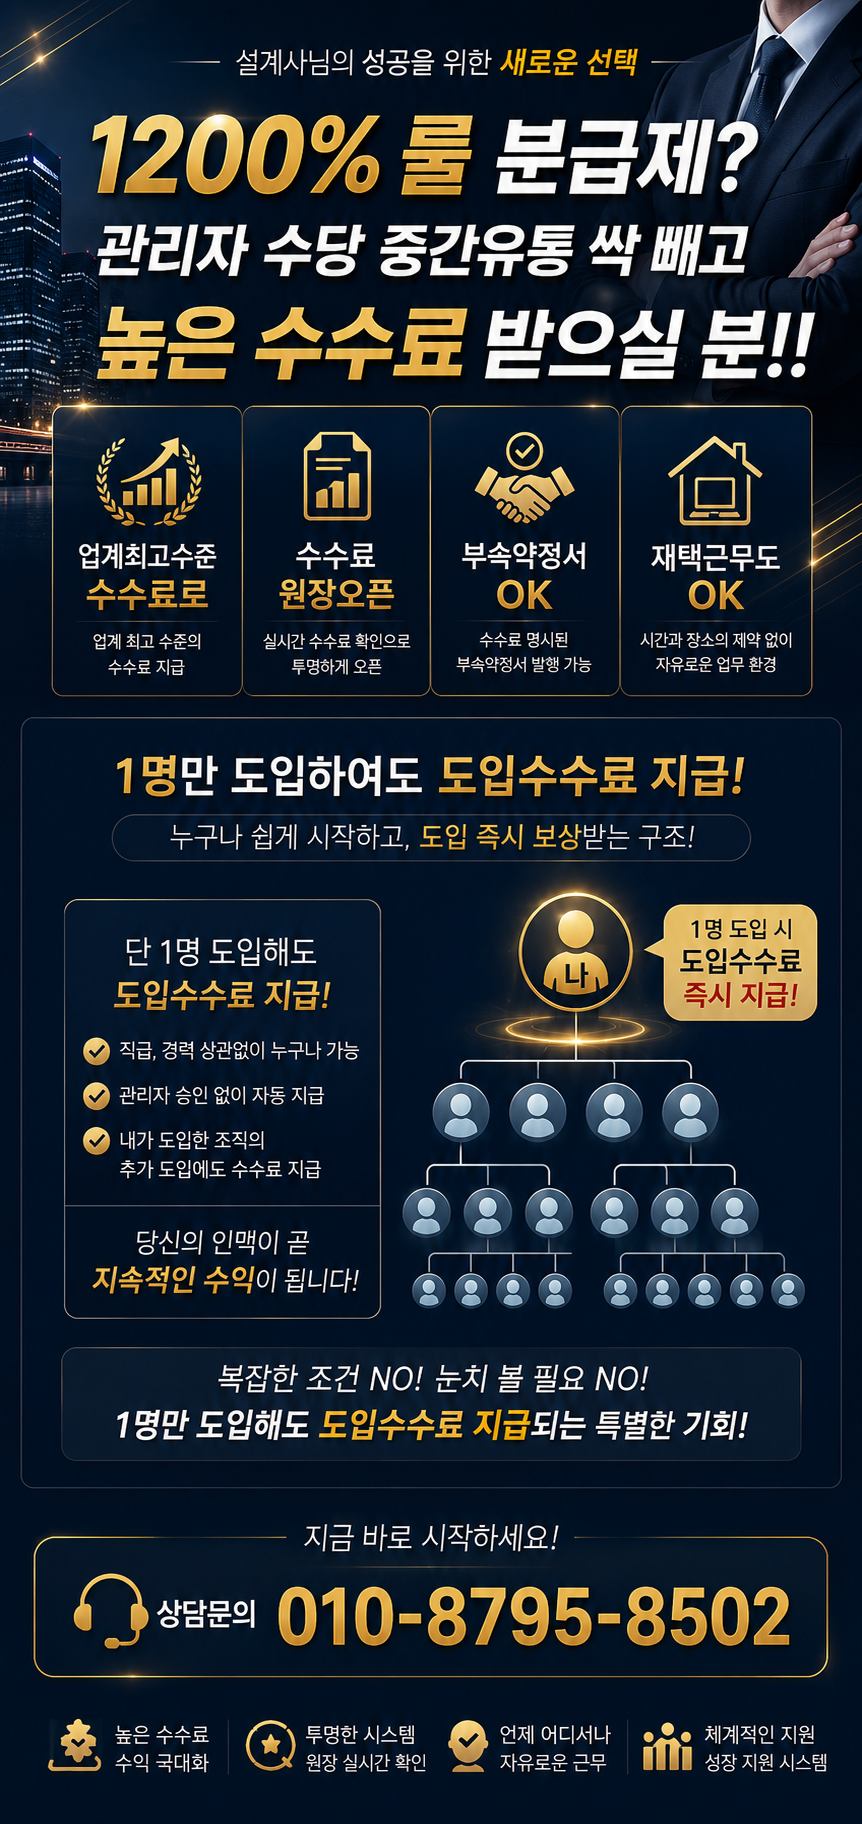
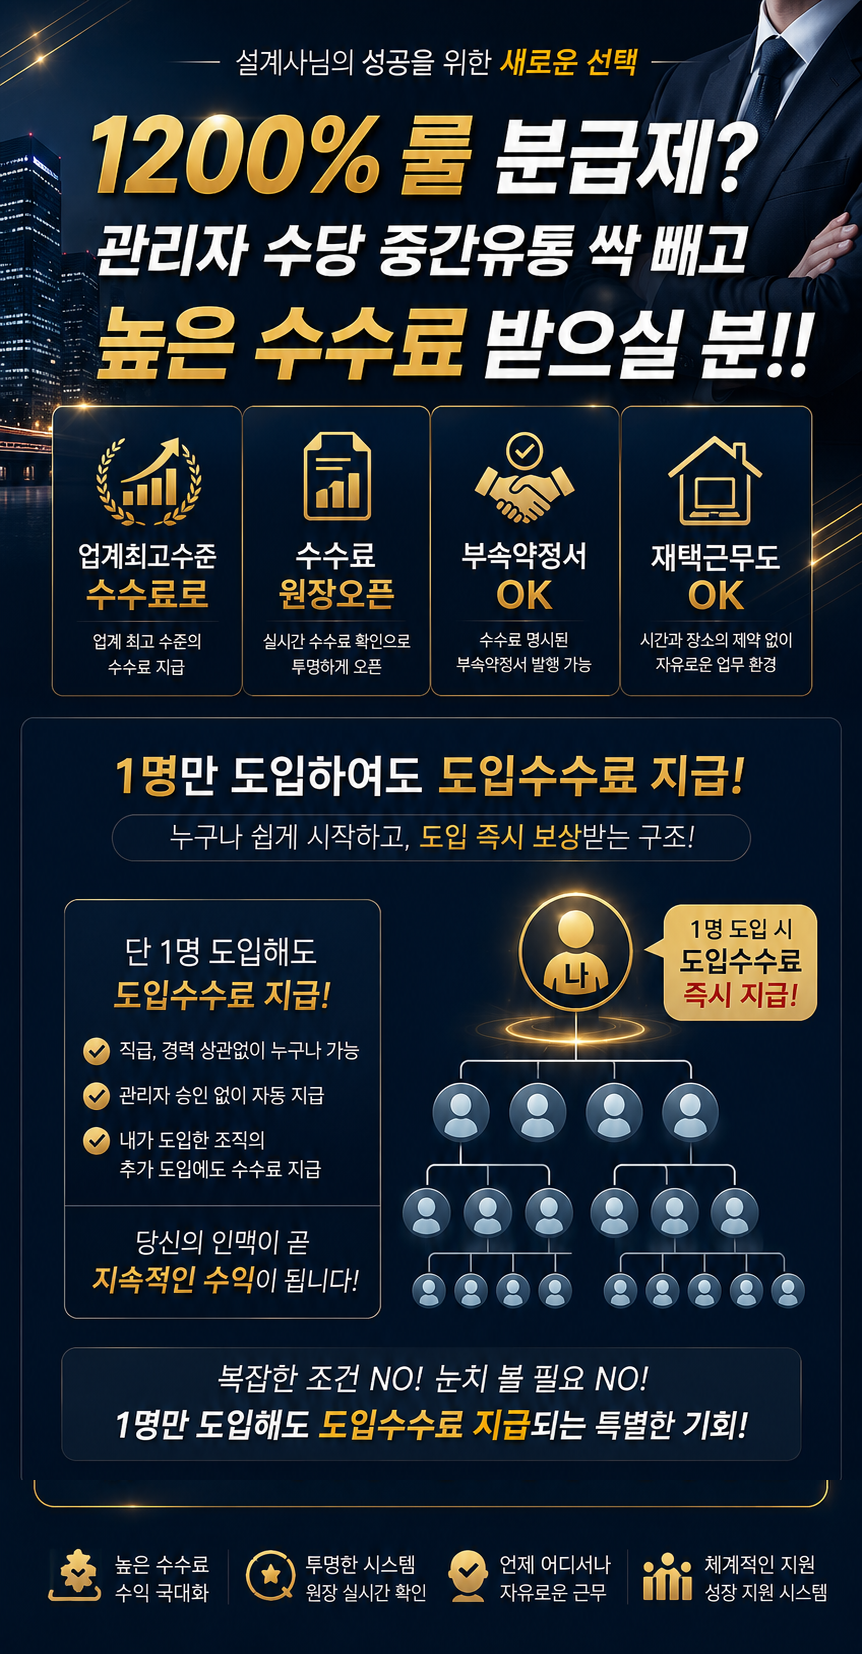
Add files via upload

diff --git a/02-리크루팅랜딩페이지1/index.html b/02-리크루팅랜딩페이지1/index.html
@@ -4,9 +4,9 @@
 <meta charset="UTF-8">
 <meta name="viewport" content="width=device-width, initial-scale=1.0, viewport-fit=cover">
 <meta name="description" content="높은 수수료, 수수료 원장 공개, 부속약정서, 재택근무 및 도입수수료 상담">
-<title>AI보험 미래전략사업부 | 설계사 상담</title>
+<title>높은 수수료를 받으셔야죠</title>
 
-<meta property="og:title" content="1200% 룰·분급제? 높은 수수료 받으실 분">
+<meta property="og:title" content="높은 수수료를 받으셔야죠">
 <meta property="og:description" content="관리자 수당과 중간유통을 줄인 투명한 수수료 구조">
 <meta property="og:image" content="https://ai-insurance-recruit.vercel.app/og-image.png">
 <meta property="og:image:secure_url" content="https://ai-insurance-recruit.vercel.app/og-image.png">
@@ -14,7 +14,7 @@
 <meta property="og:url" content="https://ai-insurance-recruit.vercel.app/">
 <meta property="og:type" content="website">
 <meta name="twitter:card" content="summary_large_image">
-<meta name="twitter:title" content="1200% 룰·분급제? 높은 수수료 받으실 분">
+<meta name="twitter:title" content="높은 수수료를 받으셔야죠">
 <meta name="twitter:description" content="수수료 원장 공개 · 부속약정서 OK · 재택근무 OK">
 <meta name="twitter:image" content="https://ai-insurance-recruit.vercel.app/og-image.png">
 
@@ -338,8 +338,6 @@ img{display:block;width:100%;height:auto}
         카카오톡으로 바로 상담하기
       </a>
 
-      <a class="phone" href="tel:01087958502">상담문의 010-8795-8502</a>
-      <p class="notice">상담 신청 내용은 CRM에 자동 저장됩니다.</p>
     </form>
   </section>
 </div>